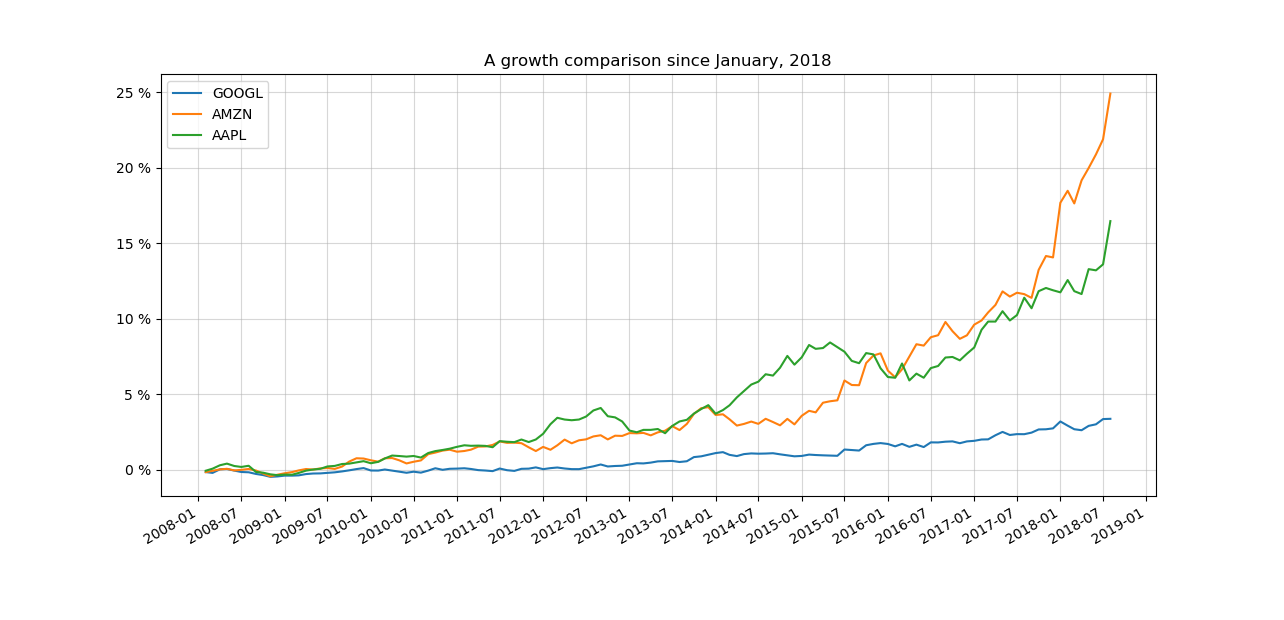
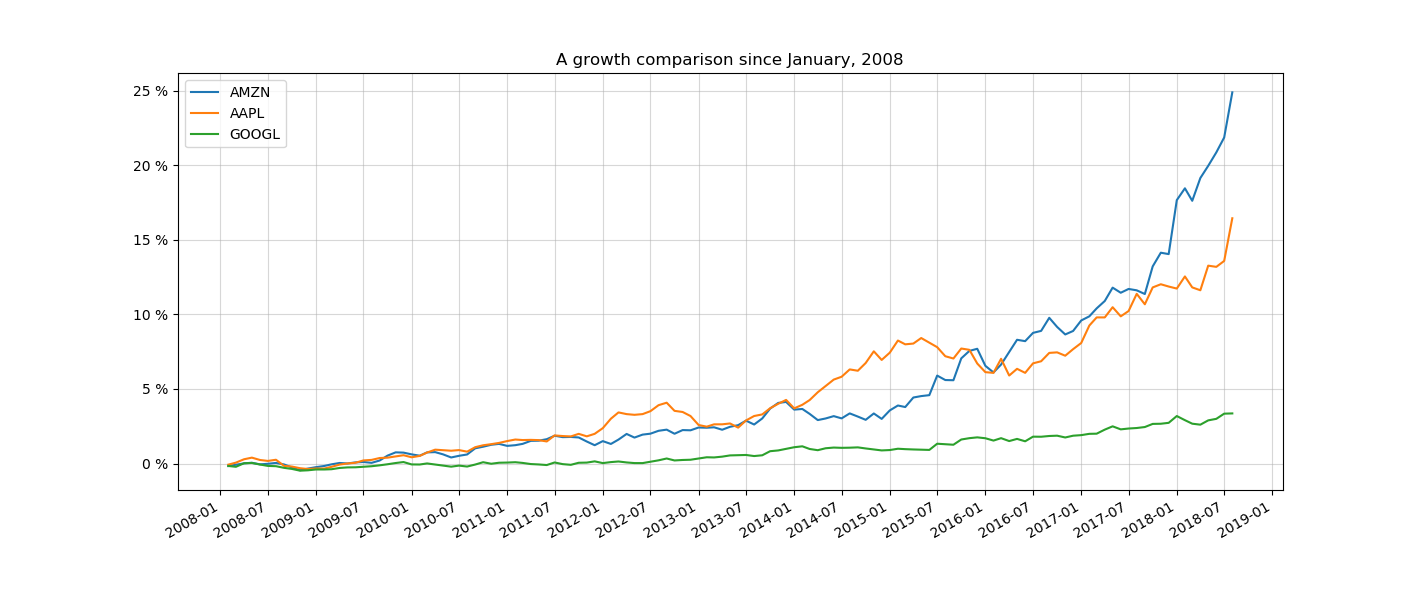
update

diff --git a/examples/getting_dividends.py b/examples/getting_dividends.py
@@ -5,12 +5,16 @@
 # into your own script, and how to use it.
 # 
 # In particular, we will download the timeseries of APPLE dividends of the last 10 years.
-# The result wil be plotted as bar chart using the matplotlib package.
+# The result wil be plotted as bar chart using matplotlib together with seaborn.
 #
 
 import yahoo_finance_pynterface as yahoo
 import matplotlib.pyplot        as plt
 import matplotlib.ticker        as mticker
+import seaborn                  as sns
+
+sns.set_style('darkgrid')
+sns.set_palette('pastel')
 
 if __name__ == '__main__':
     fig, ax = plt.subplots(1)
@@ -18,9 +22,9 @@ if __name__ == '__main__':
     r = yahoo.Get.Dividends("AAPL", period=['1998-09-1','2018-08-31']);
     if r is not None:
         r.index.name = "";
-        r.plot(kind='bar', ax=ax, zorder=100);
-        ax.grid(True, alpha=0.2);
+        r.plot(kind='bar', ax=ax, color='orange', zorder=100);
         ax.xaxis.set_major_formatter(mticker.FixedFormatter([item.strftime('%Y-%m-%d') for item in r.index]));
+        ax.grid(axis='x')
         print(r);
     else:
         print("something odd happened o.O");

diff --git a/yahoo_finance_pynterface/api.py b/yahoo_finance_pynterface/api.py
@@ -158,7 +158,7 @@ class Response:
                         'High'     : np.array(data['indicators']['quote'][0]['high']),
                         'Low'      : np.array(data['indicators']['quote'][0]['low']),
                         'Close'    : np.array(data['indicators']['quote'][0]['close']),
-                        'AdjClose' : np.array(data['indicators']['adjclose'][0]['adjclose'])
+                        'Adj Close': np.array(data['indicators']['adjclose'][0]['adjclose'])
                                         if 'adjclose' in data['indicators'].keys()
                                         else np.full(len(data['indicators']['quote'][0]['close']),np.NaN),
                         'Volume'   : np.array(data['indicators']['quote'][0]['volume'])},

diff --git a/examples/growth_comparison.py b/examples/growth_comparison.py
@@ -23,9 +23,9 @@ if __name__ == '__main__':
     
     data = yahoo.Get.Prices(tickers, interval="1mo", period=['2008-1-1','2018-08-31']);
 
-    assets = pd.DataFrame({ticker:(df.AdjClose.pct_change()+1).cumprod() for ticker,df in data.items()});
+    assets = pd.DataFrame({ticker:(df['Adj Close'].pct_change()+1).cumprod() for ticker,df in data.items()});
     assets.index.name = "";
-    assets.plot(ax=ax, title="A growth comparison since January, 2018");
+    assets.plot(ax=ax, title="A growth comparison since January, 2008");
 
     ax.grid(True, alpha=0.5);    
     ax.xaxis.set_major_locator(mdates.MonthLocator(interval=6));
